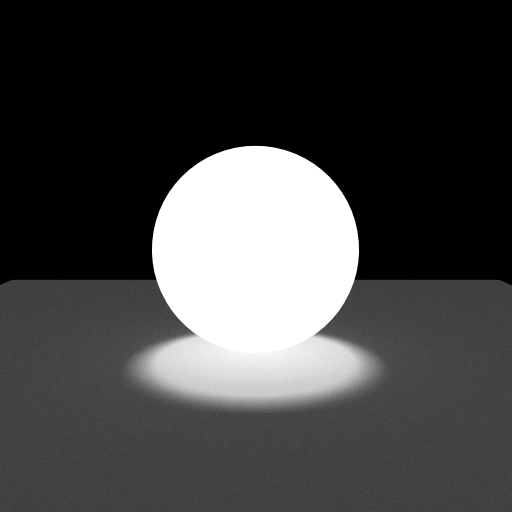
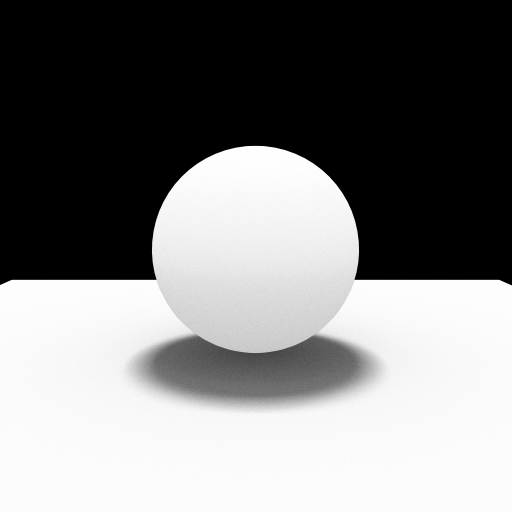
fix alpha kill for shadow matte

diff --git a/hydra_api/RenderDriverHydraConnection.cpp b/hydra_api/RenderDriverHydraConnection.cpp
@@ -87,7 +87,7 @@ struct RD_HydraConnection : public IHRRenderDriver
   void GetFrameBufferLineHDR(int32_t a_xBegin, int32_t a_xEnd, int32_t y, float* a_out, const wchar_t* a_layerName) override;
   void GetFrameBufferLineLDR(int32_t a_xBegin, int32_t a_xEnd, int32_t y, int32_t* a_out)                           override;
 
-  void GetGBufferLine(int32_t a_lineNumber, HRGBufferPixel* a_lineData, int32_t a_startX, int32_t a_endX) override;
+  void GetGBufferLine(int32_t a_lineNumber, HRGBufferPixel* a_lineData, int32_t a_startX, int32_t a_endX, const std::unordered_set<int32_t>& a_shadowCatchers) override;
 
   // info and devices
   //
@@ -865,7 +865,7 @@ void RD_HydraConnection::GetFrameBufferLDR(int32_t w, int32_t h, int32_t* a_out)
 }
 
 
-void RD_HydraConnection::GetGBufferLine(int32_t a_lineNumber, HRGBufferPixel* a_lineData, int32_t a_startX, int32_t a_endX)
+void RD_HydraConnection::GetGBufferLine(int32_t a_lineNumber, HRGBufferPixel* a_lineData, int32_t a_startX, int32_t a_endX, const std::unordered_set<int32_t>& a_shadowCatchers)
 {
   ////////////////////////////////////////////////////////////////////////////////////////////////////////////////////////////// #TODO: Refactor this
   float* data0 = nullptr;
@@ -932,8 +932,9 @@ void RD_HydraConnection::GetGBufferLine(int32_t a_lineNumber, HRGBufferPixel* a_
       {
         for (int x1 = minX; x1 <= maxX; x1++)
         {
-          const int instId = as_int(data2[(y1*m_width + x1) * 4 + 3]);
-          if (instId < 0)
+          //const int instId = as_int(data2[(y1*m_width + x1) * 4 + 3]);
+          const int matId = as_int(data1[(y1*m_width + x1) * 4 + 2])& 0x00FFFFFF;
+          if (matId < 0 || matId >= int(0x00FFFFFF) || a_shadowCatchers.find(matId) != a_shadowCatchers.end())
           {
             foundBack = true;
             goto BREAK_BOTH;

diff --git a/hydra_api/HydraAPI_GBuffer.cpp b/hydra_api/HydraAPI_GBuffer.cpp
@@ -33,7 +33,7 @@ HAPI void hrRenderGetGBufferLine(const HRRenderRef a_pRender, int32_t a_lineNumb
   if (pDriver == nullptr)
     return;
 
-  pDriver->GetGBufferLine(a_lineNumber, a_lineData, a_startX, a_endX);
+  pDriver->GetGBufferLine(a_lineNumber, a_lineData, a_startX, a_endX, g_objManager.scnData.m_shadowCatchers);
 }
 
 static inline int RealColorToUint32(const float real_color[4])
@@ -160,7 +160,7 @@ void FindDepthMinMax(std::shared_ptr<IHRRenderDriver> a_pDriver, int width, int 
 
   for (int y = 0; y < height; y++)
   {
-    a_pDriver->GetGBufferLine(y, &gbufferLine[0], 0, width);
+    a_pDriver->GetGBufferLine(y, &gbufferLine[0], 0, width, g_objManager.scnData.m_shadowCatchers);
     for (int x = 0; x < width; x++)
     {
       const float d = gbufferLine[x].depth;
@@ -276,7 +276,7 @@ HAPI bool hrRenderSaveGBufferLayerLDR(const HRRenderRef a_pRender, const wchar_t
 
   for (int y = 0; y < height; y++)
   {
-    pDriver->GetGBufferLine(y, &gbufferLine[0], 0, width);
+    pDriver->GetGBufferLine(y, &gbufferLine[0], 0, width, g_objManager.scnData.m_shadowCatchers);
 
     if (lname == L"depth")
       ExtractDepthLine(&gbufferLine[0], &imageLDR[y*width], width, dmin, dmax);

diff --git a/hydra_api/HydraRenderDriverAPI.h b/hydra_api/HydraRenderDriverAPI.h
@@ -8,6 +8,7 @@
 
 #include <cstdint>
 #include <memory>
+#include <unordered_set>
 
 #include "pugixml.hpp"
 #include "HydraAPI.h"
@@ -272,7 +273,7 @@ struct IHRRenderDriver
 
   virtual void    EvalGBuffer() { } ///< run gbuffer evaluation (which can be async in general).
 
-  virtual void    GetGBufferLine(int32_t a_lineNumber, HRGBufferPixel* a_lineData, int32_t a_startX, int32_t a_endX) = 0; ///< get single gbuffer line (because the whole gbuffer is quite big!)
+  virtual void    GetGBufferLine(int32_t a_lineNumber, HRGBufferPixel* a_lineData, int32_t a_startX, int32_t a_endX, const std::unordered_set<int32_t>& a_shadowCatchers) = 0; ///< get single gbuffer line (because the whole gbuffer is quite big!)
 
   // info and devices
   //

diff --git a/hydra_api/RenderDriverDebugPrint.cpp b/hydra_api/RenderDriverDebugPrint.cpp
@@ -48,7 +48,7 @@ struct RD_DebugPrint : public IHRRenderDriver
   void GetFrameBufferHDR(int32_t w, int32_t h, float*   a_out, const wchar_t* a_layerName) override {}
   void GetFrameBufferLDR(int32_t w, int32_t h, int32_t* a_out) override {}
 
-  void GetGBufferLine(int32_t a_lineNumber, HRGBufferPixel* a_lineData, int32_t a_startX, int32_t a_endX) override {}
+  void GetGBufferLine(int32_t a_lineNumber, HRGBufferPixel* a_lineData, int32_t a_startX, int32_t a_endX, const std::unordered_set<int32_t>& a_shadowCatchers) override {}
 
   HRDriverInfo Info() override;
   const HRRenderDeviceInfoListElem* DeviceList() const override { return nullptr; } //#TODO: implement quering GPU info bu glGetString(GL_VENDOR) and e.t.c.

diff --git a/hydra_api/RenderDriverOpenGL1.h b/hydra_api/RenderDriverOpenGL1.h
@@ -63,7 +63,7 @@ struct RD_OGL1_Plain : public IHRRenderDriver
   void GetFrameBufferHDR(int32_t w, int32_t h, float*   a_out, const wchar_t* a_layerName) override;
   void GetFrameBufferLDR(int32_t w, int32_t h, int32_t* a_out) override;
 
-  void GetGBufferLine(int32_t a_lineNumber, HRGBufferPixel* a_lineData, int32_t a_startX, int32_t a_endX) override {}
+  void GetGBufferLine(int32_t a_lineNumber, HRGBufferPixel* a_lineData, int32_t a_startX, int32_t a_endX, const std::unordered_set<int32_t>& a_shadowCatchers) override {}
 
   HRDriverInfo Info() override;
   const HRRenderDeviceInfoListElem* DeviceList() const override { return nullptr; } //#TODO: implement quering GPU info bu glGetString(GL_VENDOR) and e.t.c.

diff --git a/hydra_api/RenderDriverOpenGL32Forward.h b/hydra_api/RenderDriverOpenGL32Forward.h
@@ -45,7 +45,7 @@ struct RD_OGL32_Forward : public IHRRenderDriver
     void GetFrameBufferHDR(int32_t w, int32_t h, float*   a_out, const wchar_t* a_layerName) override;
     void GetFrameBufferLDR(int32_t w, int32_t h, int32_t* a_out) override;
 
-    void GetGBufferLine(int32_t a_lineNumber, HRGBufferPixel* a_lineData, int32_t a_startX, int32_t a_endX) override {}
+    void GetGBufferLine(int32_t a_lineNumber, HRGBufferPixel* a_lineData, int32_t a_startX, int32_t a_endX, const std::unordered_set<int32_t>& a_shadowCatchers) override {}
 
     HRDriverInfo Info() override;
     const HRRenderDeviceInfoListElem* DeviceList() const override { return nullptr; }

diff --git a/hydra_api/RenderDriverOpenGL32Deferred.h b/hydra_api/RenderDriverOpenGL32Deferred.h
@@ -42,7 +42,7 @@ struct RD_OGL32_Deferred : IHRRenderDriver
   void GetFrameBufferHDR(int32_t w, int32_t h, float*   a_out, const wchar_t* a_layerName) override;
   void GetFrameBufferLDR(int32_t w, int32_t h, int32_t* a_out) override;
 
-  void GetGBufferLine(int32_t a_lineNumber, HRGBufferPixel* a_lineData, int32_t a_startX, int32_t a_endX) override {}
+  void GetGBufferLine(int32_t a_lineNumber, HRGBufferPixel* a_lineData, int32_t a_startX, int32_t a_endX, const std::unordered_set<int32_t>& a_shadowCatchers) override {}
 
   HRDriverInfo Info() override;
   const HRRenderDeviceInfoListElem* DeviceList() const override { return nullptr; }

diff --git a/hydra_api/HydraObjectManager.h b/hydra_api/HydraObjectManager.h
@@ -306,6 +306,7 @@ struct HRSceneData : public HRObject<IHRSceneData>
   // dependency data
   //
   std::unordered_multimap<int32_t, int32_t> m_materialToMeshDependency;
+  std::unordered_set<int32_t>               m_shadowCatchers;
 
   ///////////////////////////////////////////////////////////////////////////////////////////////////////////////////////////////////////// 
 
@@ -391,6 +392,7 @@ struct HRSceneData : public HRObject<IHRSceneData>
     m_iesCache.clear();
 
     m_materialToMeshDependency.clear();
+    m_shadowCatchers.clear();
   }
 
   int32_t m_commitId;

diff --git a/main/main.cpp b/main/main.cpp
@@ -121,7 +121,7 @@ int main(int argc, const char** argv)
 
     //std::cout << test39_mesh_from_vsgf() << std::endl;
     //std::cout << test37_cornell_with_light_different_image_layers() << std::endl;
-    //std::cout << test77_save_gbuffer_layers() << std::endl;
+    std::cout << test77_save_gbuffer_layers() << std::endl;
     //std::cout << test59_cornell_water_mlt() << std::endl;
     //std::cout << test70_area_lights16() << std::endl;
     //std::cout << test78_material_remap_list1() << std::endl;

diff --git a/hydra_api/HydraDriverUpdate.cpp b/hydra_api/HydraDriverUpdate.cpp
@@ -532,6 +532,8 @@ int32_t HR_DriverUpdateMaterials(HRSceneInst& scn, ChangeList& objList, IHRRende
       pugi::xml_node node = g_objManager.scnData.materials[matId].xml_node_immediate();
       scn.matUsedByDrv.insert(*p);
       a_pDriver->UpdateMaterial(int32_t(*p), node);
+      if (std::wstring(L"shadow_catcher") == node.attribute(L"type").as_string())
+        g_objManager.scnData.m_shadowCatchers.insert(matId);
       updatedMaterials++;
     }
     else
